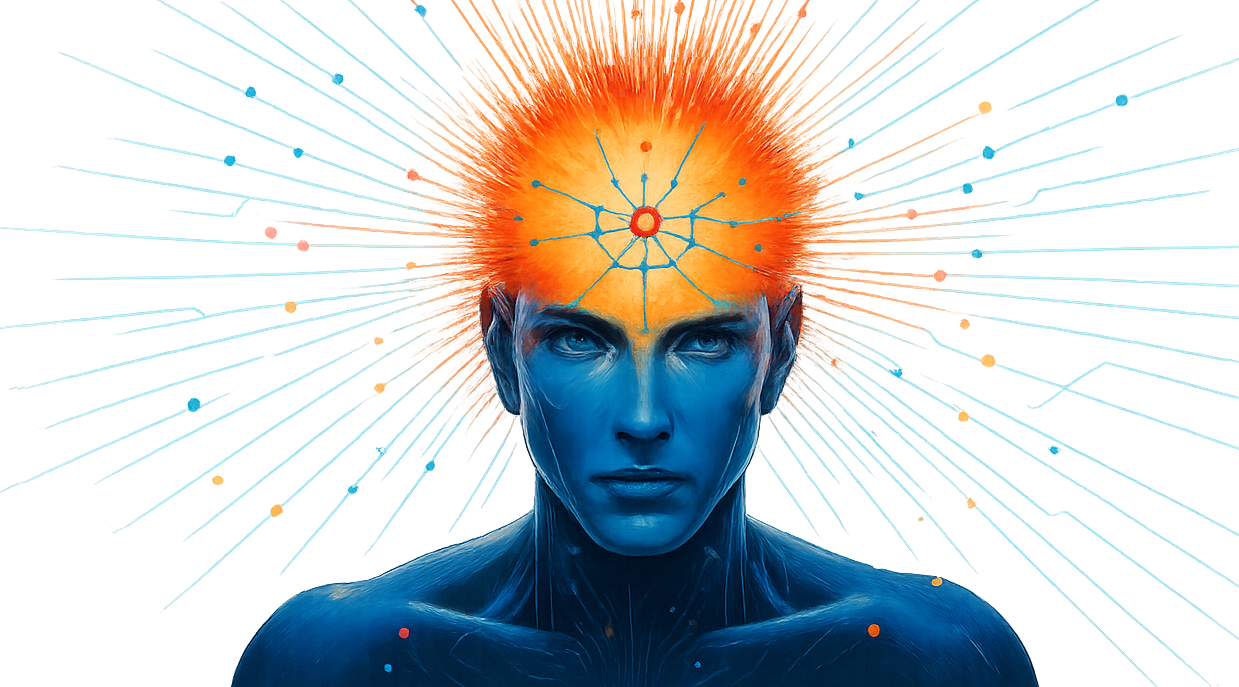
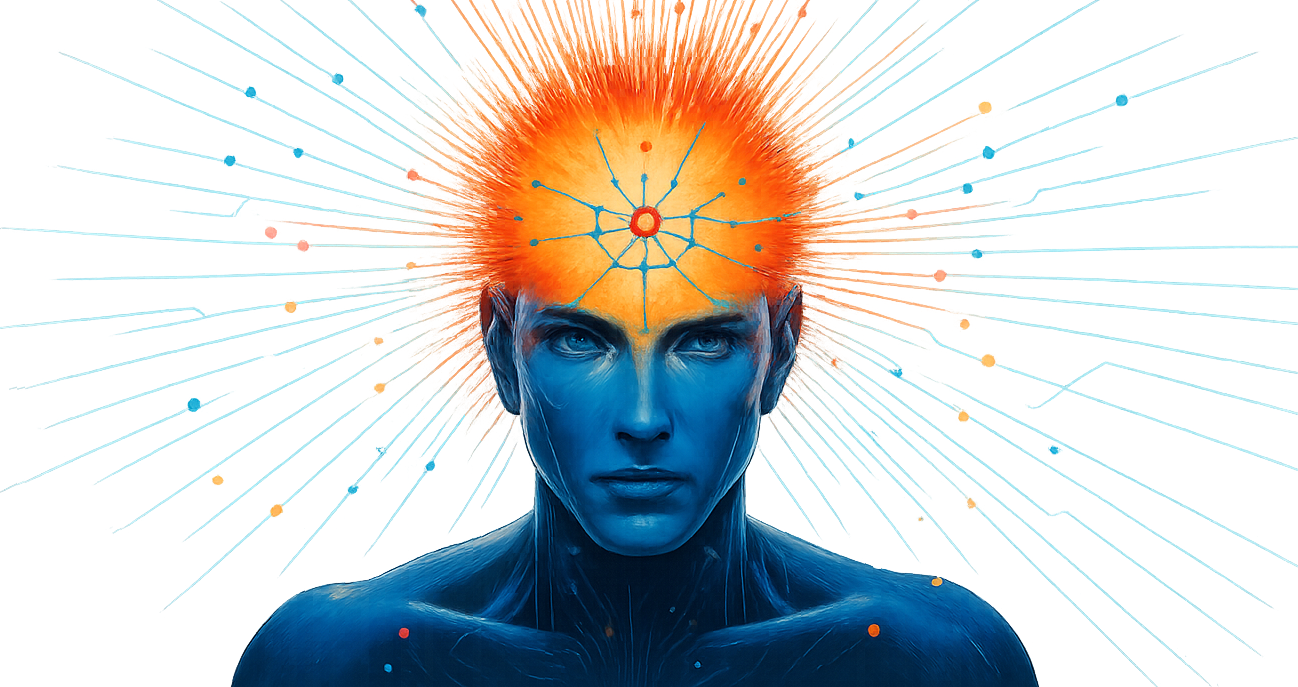
header adaptado a movil

diff --git a/src/css/Inicio.css b/src/css/Inicio.css
@@ -23,16 +23,16 @@
   filter: brightness(0.65);
   -webkit-mask-image: linear-gradient(
     to bottom,
-    transparent 0%,
-    black 12%,
-    black 88%,
+    black 0%,
+    black 85%,
+    rgba(0,0,0,0.10) 97%,
     transparent 100%
   );
   mask-image: linear-gradient(
     to bottom,
-    transparent 0%,
-    black 12%,
-    black 88%,
+    black 0%,
+    black 85%,
+    rgba(0,0,0,0.10) 97%,
     transparent 100%
   );
 }
@@ -51,6 +51,10 @@
   text-align: center;
   z-index: 2;
   padding: 0 1.5rem;
+  left: 0;
+  right: 0;
+  margin: 0 auto;
+  box-sizing: border-box;
 
   /* Fondo mejorar legibilidad */
   background: linear-gradient(
@@ -65,7 +69,7 @@
 /* Tema claro */
 :root[data-theme="light"] .inicio-hero-overlay {
   background: none;
-  backdrop-filter: blur(1.5px);
+  backdrop-filter: blur(1px);
   color: #fff;
 }
 
@@ -140,39 +144,120 @@
 }
 
 @media (max-width: 750px) {
+  .inicio-hero {
+    min-height: 220px;
+    height: 45vh;
+    width: 100vw;
+    position: fixed;
+    inset: 0;
+    margin: 0 !important;
+    padding: 0;
+    box-sizing: border-box;
+  }
+  .inicio-hero-img {
+    width: 100vw;
+    min-width: 100vw;
+    height: 100%;
+    position: absolute;
+    inset: 0;
+    margin: 0 !important;
+    display: block;
+    object-fit: cover;
+    box-sizing: border-box;
+    /* Elimina cualquier borde/margen por defecto */
+    -webkit-mask-image: linear-gradient(
+      to bottom,
+      black 0%,
+      black 85%,
+      rgba(0,0,0,0.10) 97%,
+      transparent 100%
+    );
+    mask-image: linear-gradient(
+      to bottom,
+      black 0%,
+      black 85%,
+      rgba(0,0,0,0.10) 97%,
+      transparent 100%
+    );
+  }
+  .inicio-hero-overlay {
+    padding: 0 0.5rem;
+    align-items: center;
+    justify-content: flex-start;
+    text-align: center;
+    margin: 0;
+    left: 0;
+    right: 0;
+    top: 0;
+    bottom: 0;
+    width: 100vw;
+    height: 100%;
+    box-sizing: border-box;
+    padding-top: 7vh;
+  }
+  .inicio-event {
+    font-size: 1.3rem;
+    margin-bottom: 1rem;
+  }
   .inicio-title {
     font-size: 2.5rem;
+    margin-top: 0rem;
   }
   .inicio-subtitle {
     font-size: 1.3rem;
   }
   .inicio-info {
-    font-size: 1rem;
-    padding: 0.5rem 1rem;
+    font-size: 0.75rem;
+    padding: 0.4rem 0.8rem;
     bottom: 1.2rem;
+    white-space: nowrap;
+    text-align: center;
+    left: 50%;
+    transform: translateX(-50%);
+    width: auto;
+    max-width: 95vw;
+    overflow-x: auto;
   }
   .inicio-event {
     font-size: 1.2rem;
   }
-}
-
-@media (max-width: 600px) {
-  .inicio-title {
-    font-size: 1.5rem;
+  /* Blur y máscara según tema */
+  .inicio-hero-img {
+    filter: brightness(0.65);
+    -webkit-mask-image: linear-gradient(
+      to bottom,
+      black 0%,
+      black 85%,
+      rgba(0,0,0,0.10) 97%,
+      transparent 100%
+    );
+    mask-image: linear-gradient(
+      to bottom,
+      black 0%,
+      black 85%,
+      rgba(0,0,0,0.10) 97%,
+      transparent 100%
+    );
   }
-  .inicio-subtitle {
-    font-size: 1rem;
+  :root[data-theme="light"] .inicio-hero-img {
+    filter: blur(1px) brightness(1);
+    -webkit-mask-image: linear-gradient(
+      to bottom,
+      black 0%,
+      black 90%,
+      rgba(0,0,0,0.01) 97%,
+      transparent 100%
+    );
+    mask-image: linear-gradient(
+      to bottom,
+      black 0%,
+      black 90%,
+      rgba(0,0,0,0.01) 97%,
+      transparent 100%
+    );
   }
-  .inicio-info {
-    font-size: 0.95rem;
-    padding: 0.4rem 0.8rem;
-    bottom: 0.7rem;
-  }
-  .inicio-hero {
-    min-height: 250px;
-    height: 45vh;
-  }
-  .inicio-event {
-    font-size: 0.9rem;
+  :root[data-theme="light"] .inicio-hero-overlay {
+    background: none;
+    backdrop-filter: blur(1px);
   }
 }
